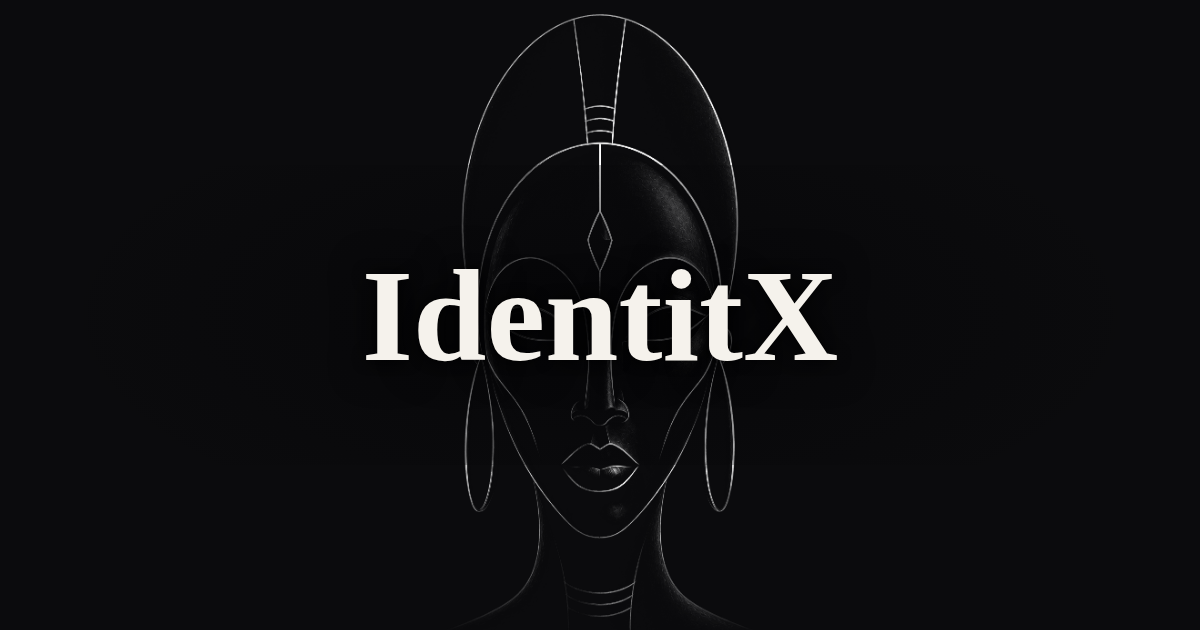
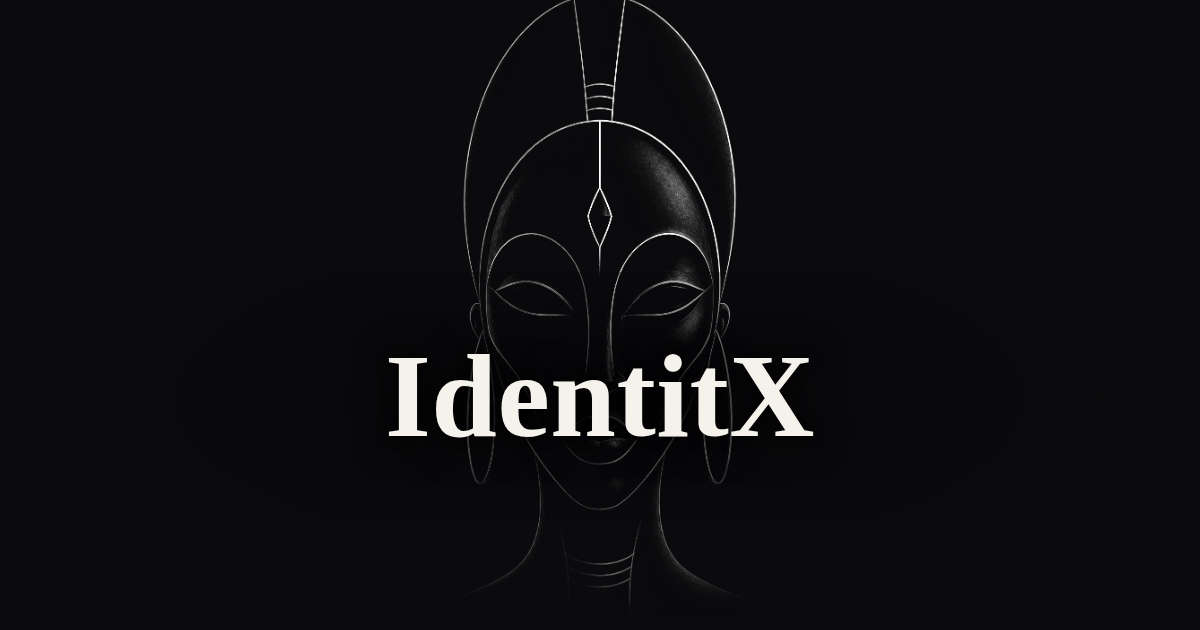
Typo premium/graphique (Fraunces + mono) & couverture : nom plus bas, boutons lisibles
- Typographie « esprit Co-Star » : titres en Fraunces (serif haute-couture, fort
  contraste, optical-sizing) à la place de Cormorant ; petits surtitres/libellés
  en MONOSPACE (IBM Plex Mono) — la signature graphique. Corps en Inter.
  · layout : imports Fraunces + IBM Plex Mono, var --font-mono ; tailwind : famille mono.
  · surtitres passés en font-mono (23 occurrences, 9 écrans) + primitives PageHead/Label.
- Couverture du lien : nom « IdentitX » descendu (sur le bas du masque), en Fraunces.
- Lisibilité boutons : l'état désactivé du bouton « Commencer » (Gate) passe à un
  texte nettement plus contrasté sur fond gris.

Build ✓, tests ✓, écrans vérifiés (accueil, gate, coach, scénarios) : lisibles.

Claude-Session: https://claude.ai/code/session_01UtR2kkn9CfzEv38xGpK1TZ

diff --git a/app/aujourdhui/page.tsx b/app/aujourdhui/page.tsx
@@ -216,7 +216,7 @@ export default function AujourdhuiPage() {
         <div>
           {/* La capsule + CTA — sans jour ni progression : à vivre quand tu veux. */}
           <div className="text-center sm:text-left">
-            <div className="flex items-center justify-center gap-2 text-[12px] font-bold uppercase tracking-[0.2em] text-fuchsia sm:justify-start">
+            <div className="flex items-center justify-center gap-2 text-[12px] font-mono font-semibold uppercase tracking-[0.14em] text-fuchsia sm:justify-start">
               <span>Ta capsule</span>
             </div>
             <h2 className="mt-1.5 font-display text-2xl font-semibold text-ink sm:text-[1.7rem]">
@@ -296,7 +296,7 @@ export default function AujourdhuiPage() {
       <Reveal as="div" className="mt-4">
       <Link href="/premium" className="block">
         <Card className="p-5 transition-colors hover:border-fuchsia/40">
-          <div className="flex items-center gap-2 text-[12px] font-bold uppercase tracking-[0.2em] text-fuchsia">
+          <div className="flex items-center gap-2 text-[12px] font-mono font-semibold uppercase tracking-[0.14em] text-fuchsia">
             <Sparkles size={13} /> Aller plus loin
           </div>
           <p className="mt-2 text-[15px] font-semibold text-ink">
@@ -364,7 +364,7 @@ function BasculeAExplorer() {
   return (
     <Link href="/explorer" className="mt-4 block animate-fade-up">
       <Card className="p-5 transition-colors hover:border-fuchsia/40">
-        <div className="flex items-center gap-2 text-[12px] font-bold uppercase tracking-[0.2em] text-fuchsia">
+        <div className="flex items-center gap-2 text-[12px] font-mono font-semibold uppercase tracking-[0.14em] text-fuchsia">
           <Compass size={13} /> Une bascule à explorer
         </div>
         <p className="mt-2 text-[15px] font-semibold text-ink">
@@ -397,7 +397,7 @@ function CheckinPacte({ jourCourant }: { jourCourant: number }) {
   ];
   return (
     <Card className="mb-4 p-5 animate-fade-up sm:p-6">
-      <div className="text-[12px] font-bold uppercase tracking-[0.2em] text-fuchsia">
+      <div className="text-[12px] font-mono font-semibold uppercase tracking-[0.14em] text-fuchsia">
         Ton engagement précédent
       </div>
       <p className="mt-1.5 font-display text-lg font-light leading-snug text-ink">
@@ -436,7 +436,7 @@ function RevelationCard({ faits }: { faits: number }) {
     <Link href={cible.href} className="mt-4 block animate-fade-up">
       <Card className="p-5 transition-colors hover:border-fuchsia/40">
         <div className="flex items-center justify-between">
-          <div className="flex items-center gap-2 text-[12px] font-bold uppercase tracking-[0.2em] text-fuchsia">
+          <div className="flex items-center gap-2 text-[12px] font-mono font-semibold uppercase tracking-[0.14em] text-fuchsia">
             <Sparkles size={13} /> À venir
           </div>
           <ArrowRight size={15} className="text-muted" />
@@ -546,7 +546,7 @@ function TroisExercices({
   );
   return (
     <section className="mt-4 animate-fade-up" style={{ animationDelay: "50ms" }}>
-      <div className="mb-1 flex items-center gap-2 text-[12px] font-bold uppercase tracking-[0.2em] text-fuchsia">
+      <div className="mb-1 flex items-center gap-2 text-[12px] font-mono font-semibold uppercase tracking-[0.14em] text-fuchsia">
         <Dumbbell size={13} /> Ton exercice du jour
       </div>
       <p className="mb-3 max-w-xl text-xs leading-relaxed text-muted">
@@ -629,7 +629,7 @@ function ItineraireDuJour({
 
   return (
     <section className="mt-4 animate-fade-up" style={{ animationDelay: "70ms" }}>
-      <div className="mb-3 flex items-center gap-2 text-[12px] font-bold uppercase tracking-[0.2em] text-fuchsia">
+      <div className="mb-3 flex items-center gap-2 text-[12px] font-mono font-semibold uppercase tracking-[0.14em] text-fuchsia">
         <Route size={13} /> Ton itinéraire du jour
       </div>
       <div className="overflow-hidden rounded-2xl border border-line bg-surface shadow-soft">
@@ -694,7 +694,7 @@ function FilDuJour({ n, arch }: { n: number; arch: Archetype | null }) {
 
   return (
     <section className="mt-4 animate-fade-up" style={{ animationDelay: "80ms" }}>
-      <div className="mb-3 flex items-center gap-2 text-[12px] font-bold uppercase tracking-[0.2em] text-fuchsia">
+      <div className="mb-3 flex items-center gap-2 text-[12px] font-mono font-semibold uppercase tracking-[0.14em] text-fuchsia">
         <Sparkles size={13} /> Le fil du jour
       </div>
 
@@ -841,7 +841,7 @@ function PremiereLecture() {
           "radial-gradient(130% 130% at 0% 0%, color-mix(in srgb, var(--fuchsia) 9%, transparent), transparent 60%)",
       }}
     >
-      <div className="text-[12px] font-bold uppercase tracking-[0.2em] text-fuchsia">
+      <div className="text-[12px] font-mono font-semibold uppercase tracking-[0.14em] text-fuchsia">
         Ta première lecture · à explorer à ton rythme
       </div>
       <h2 className="mt-1 font-display text-xl font-light text-ink">{pl.titre}</h2>
@@ -868,7 +868,7 @@ function PremiereLecture() {
 function PossiblesCard() {
   return (
     <section className="mt-4 animate-fade-up" style={{ animationDelay: "90ms" }}>
-      <div className="mb-3 flex items-center gap-2 text-[12px] font-bold uppercase tracking-[0.2em] text-fuchsia">
+      <div className="mb-3 flex items-center gap-2 text-[12px] font-mono font-semibold uppercase tracking-[0.14em] text-fuchsia">
         <Compass size={13} /> Tes possibles
       </div>
       <Link
@@ -919,7 +919,7 @@ function ClimatCard({ jour }: { jour: number }) {
       <div className="mt-4 animate-fade-up">
         <Card className="flex flex-col gap-3 p-5 sm:flex-row sm:items-center sm:justify-between">
           <div>
-            <div className="text-[12px] font-bold uppercase tracking-[0.2em] text-fuchsia">
+            <div className="text-[12px] font-mono font-semibold uppercase tracking-[0.14em] text-fuchsia">
               Climat du jour · {climatLabel(idx)}
             </div>
             <p className="mt-1 max-w-md text-sm text-muted">{climatPhrase(idx)}</p>
@@ -938,7 +938,7 @@ function ClimatCard({ jour }: { jour: number }) {
   return (
     <div className="mt-4 animate-fade-up">
       <Card className="p-5 sm:p-6">
-        <div className="text-[12px] font-bold uppercase tracking-[0.2em] text-fuchsia">
+        <div className="text-[12px] font-mono font-semibold uppercase tracking-[0.14em] text-fuchsia">
           Climat &amp; corps · optionnel
         </div>
         <p className="mt-1 text-sm text-muted">
@@ -979,7 +979,7 @@ function SecondPlan({ prog }: { prog: { faits: number } }) {
   ];
   return (
     <div className="mt-8 animate-fade-up" style={{ animationDelay: "120ms" }}>
-      <div className="mb-3 text-[12px] font-bold uppercase tracking-[0.2em] text-muted">
+      <div className="mb-3 text-[12px] font-mono font-semibold uppercase tracking-[0.14em] text-muted">
         Explorer
       </div>
       <div className="flex flex-wrap gap-3">

diff --git a/app/layout.tsx b/app/layout.tsx
@@ -1,5 +1,5 @@
 import type { Metadata, Viewport } from "next";
-import { Cormorant, Inter } from "next/font/google";
+import { Fraunces, Inter, IBM_Plex_Mono } from "next/font/google";
 import "./globals.css";
 import { ClientShell } from "@/components/ClientShell";
 import { Gate } from "@/components/Gate";
@@ -7,15 +7,21 @@ import { StateSync } from "@/components/StateSync";
 import { EtatSync } from "@/components/EtatSync";
 import { VersionGuard } from "@/components/VersionGuard";
 
-// Typographie ÉDITORIALE (premium) : un serif de caractère pour les titres
-// (Fraunces — chaleureux, un peu « haute couture ») + une sans nette et neutre
-// pour le corps (Inter). Le contraste serif/sans donne l'assise « haut de
-// gamme ». --font-fraunces = titres · --font-inter = corps.
-const cormorant = Cormorant({
+// Typographie ÉDITORIALE (premium, graphique — esprit Co-Star) : un serif de
+// caractère à fort contraste pour les titres (Fraunces — « haute couture »,
+// optical-sizing), un MONOSPACE pour les petits libellés/surtitres (la signature
+// graphique), et une sans neutre pour le corps (Inter).
+// --font-fraunces = titres · --font-mono = libellés · --font-inter = corps.
+const fraunces = Fraunces({
   subsets: ["latin"],
   display: "swap",
-  weight: ["500", "600", "700"],
+  weight: ["400", "500", "600", "700"],
   style: ["normal", "italic"],
+});
+const plexMono = IBM_Plex_Mono({
+  subsets: ["latin"],
+  display: "swap",
+  weight: ["500", "600"],
 });
 const inter = Inter({
   subsets: ["latin"],
@@ -76,7 +82,8 @@ export default function RootLayout({
       className={inter.className + " pal-lin"}
       style={
         {
-          "--font-fraunces": cormorant.style.fontFamily,
+          "--font-fraunces": fraunces.style.fontFamily,
+          "--font-mono": plexMono.style.fontFamily,
           "--font-inter": inter.style.fontFamily,
         } as React.CSSProperties
       }

diff --git a/app/exercices/page.tsx b/app/exercices/page.tsx
@@ -256,7 +256,7 @@ export default function ExercicesPage() {
                 "radial-gradient(130% 130% at 0% 0%, color-mix(in srgb, var(--fuchsia) 9%, transparent), transparent 60%)",
             }}
           >
-            <div className="flex items-center gap-2 text-[12px] font-bold uppercase tracking-[0.2em] text-fuchsia">
+            <div className="flex items-center gap-2 text-[12px] font-mono font-semibold uppercase tracking-[0.14em] text-fuchsia">
               <Sparkles size={14} /> Ton éclairage du jour
               {eclairage._mock && (
                 <span className="ml-1 rounded-full border border-line px-2 py-0.5 text-[12px] font-normal normal-case tracking-normal text-muted">
@@ -297,7 +297,7 @@ export default function ExercicesPage() {
 
       {/* Aller plus loin (optionnel) : deux pratiques du jour, en rotation. */}
       <div className="mt-8">
-        <div className="mb-1 flex items-center gap-2 text-[12px] font-bold uppercase tracking-[0.2em] text-fuchsia">
+        <div className="mb-1 flex items-center gap-2 text-[12px] font-mono font-semibold uppercase tracking-[0.14em] text-fuchsia">
           <Sparkles size={13} /> Envie d'aller plus loin ?
         </div>
         <p className="mb-4 max-w-xl text-xs leading-relaxed text-muted">

diff --git a/app/quete/page.tsx b/app/quete/page.tsx
@@ -188,7 +188,7 @@ function QueteMonde({
 
       {/* En-tête */}
       <div className="min-w-0">
-        <div className="text-xs font-bold uppercase tracking-[0.2em]" style={{ color: m.accent }}>
+        <div className="text-xs font-mono font-semibold uppercase tracking-[0.14em]" style={{ color: m.accent }}>
           La Quête
         </div>
         <h1 className="mt-2 break-words font-display text-3xl font-semibold leading-tight" style={{ color: m.ink }}>
@@ -352,7 +352,7 @@ function QueteMonde({
             className="px-6 py-5 text-center"
             style={{ background: `linear-gradient(180deg, color-mix(in srgb, ${m.accent} 16%, transparent), transparent)` }}
           >
-            <div className="text-xs font-bold uppercase tracking-[0.2em]" style={{ color: m.accent }}>
+            <div className="text-xs font-mono font-semibold uppercase tracking-[0.14em]" style={{ color: m.accent }}>
               Ton futur moi · le lest posé
             </div>
             <div className="mt-1.5 font-display text-2xl font-light" style={{ color: m.ink }}>

diff --git a/components/Gate.tsx b/components/Gate.tsx
@@ -340,10 +340,12 @@ export function Gate({ children }: { children: React.ReactNode }) {
                 // thème clair). État actif : plein accent + texte on-brand.
                 background:
                   loading || !email.trim()
-                    ? "color-mix(in srgb, var(--ink) 12%, transparent)"
+                    ? "color-mix(in srgb, var(--ink) 16%, transparent)"
                     : "linear-gradient(90deg,var(--fuchsia),var(--orange))",
                 color:
-                  loading || !email.trim() ? "var(--muted)" : "var(--on-brand)",
+                  loading || !email.trim()
+                    ? "color-mix(in srgb, var(--ink) 74%, transparent)"
+                    : "var(--on-brand)",
                 border: "none",
                 borderRadius: 14,
                 padding: "0 18px",

diff --git a/components/ui.tsx b/components/ui.tsx
@@ -31,7 +31,7 @@ export function PageHead({
   return (
     <div className="mb-8 animate-fade-up">
       {eyebrow && (
-        <div className="mb-2 text-[12px] font-bold uppercase tracking-[0.22em]" style={{ color: "var(--prune)" }}>
+        <div className="mb-2 text-[12px] font-mono font-semibold uppercase tracking-[0.14em]" style={{ color: "var(--prune)" }}>
           {eyebrow}
         </div>
       )}
@@ -90,7 +90,7 @@ export function Tag({ children }: { children: ReactNode }) {
 
 export function Label({ children }: { children: ReactNode }) {
   return (
-    <span className="mb-1 block text-xs font-medium uppercase tracking-wider text-muted">
+    <span className="mb-1 block font-mono text-xs font-medium uppercase tracking-[0.12em] text-muted">
       {children}
     </span>
   );

diff --git a/app/premium/signature/page.tsx b/app/premium/signature/page.tsx
@@ -71,7 +71,7 @@ function SyntheseBloc({ synthese }: { synthese: string }) {
         background: "radial-gradient(130% 130% at 0% 0%, color-mix(in srgb, var(--fuchsia) 9%, transparent), transparent 60%)",
       }}
     >
-      <div className="text-[12px] font-bold uppercase tracking-[0.2em] text-fuchsia">La lecture d'ensemble</div>
+      <div className="text-[12px] font-mono font-semibold uppercase tracking-[0.14em] text-fuchsia">La lecture d'ensemble</div>
       <p className="mt-2 text-[15px] leading-relaxed text-ink">{synthese}</p>
     </div>
   );

diff --git a/app/ressources/page.tsx b/app/ressources/page.tsx
@@ -56,7 +56,7 @@ export default function RessourcesPage() {
           if (liste.length === 0) return null;
           return (
             <section key={type} className="animate-fade-up">
-              <div className="mb-2 flex items-center gap-2 text-[12px] font-bold uppercase tracking-[0.2em] text-fuchsia">
+              <div className="mb-2 flex items-center gap-2 text-[12px] font-mono font-semibold uppercase tracking-[0.14em] text-fuchsia">
                 {icon} {titre}
               </div>
               {intro && (

diff --git a/app/scenarios/page.tsx b/app/scenarios/page.tsx
@@ -159,7 +159,7 @@ export default function TurbinePage() {
       {input && (
         <div className="mb-6 rounded-2xl border border-line bg-surface p-5 shadow-soft">
           <div className="flex items-center justify-between">
-            <div className="text-[12px] font-bold uppercase tracking-[0.2em] text-fuchsia">
+            <div className="text-[12px] font-mono font-semibold uppercase tracking-[0.14em] text-fuchsia">
               {reel ? "Ton vortex" : "Ton point de départ"}
             </div>
             <span

diff --git a/app/rapport-analytique/page.tsx b/app/rapport-analytique/page.tsx
@@ -259,7 +259,7 @@ export default function RapportAnalytiquePage() {
 function Bloc({ titre, children }: { titre: string; children: React.ReactNode }) {
   return (
     <section className="rapport-card rounded-2xl border border-line bg-surface p-6 shadow-soft">
-      <h2 className="mb-4 text-[12px] font-bold uppercase tracking-[0.2em] text-fuchsia">{titre}</h2>
+      <h2 className="mb-4 text-[12px] font-mono font-semibold uppercase tracking-[0.14em] text-fuchsia">{titre}</h2>
       {children}
     </section>
   );

diff --git a/components/Onboarding.tsx b/components/Onboarding.tsx
@@ -262,7 +262,7 @@ export function StepAccueil() {
           Ton identité est une signature invisible &amp; multifactorielle.
         </h1>
 
-        <p className="mt-8 text-[12px] font-bold uppercase tracking-[0.2em] text-fuchsia">
+        <p className="mt-8 text-[12px] font-mono font-semibold uppercase tracking-[0.14em] text-fuchsia">
           Entre dans la quête pour
         </p>
         <ul className="mx-auto mt-4 flex max-w-xs flex-col gap-3 text-left">

diff --git a/tailwind.config.ts b/tailwind.config.ts
@@ -27,8 +27,9 @@ const config: Config = {
         slate: "var(--slate)",
       },
       fontFamily: {
-        display: ["var(--font-fraunces)", "system-ui", "sans-serif"],
+        display: ["var(--font-fraunces)", "Georgia", "serif"],
         sans: ["var(--font-inter)", "system-ui", "sans-serif"],
+        mono: ["var(--font-mono)", "ui-monospace", "SFMono-Regular", "monospace"],
       },
       borderRadius: {
         xl: "1rem",
